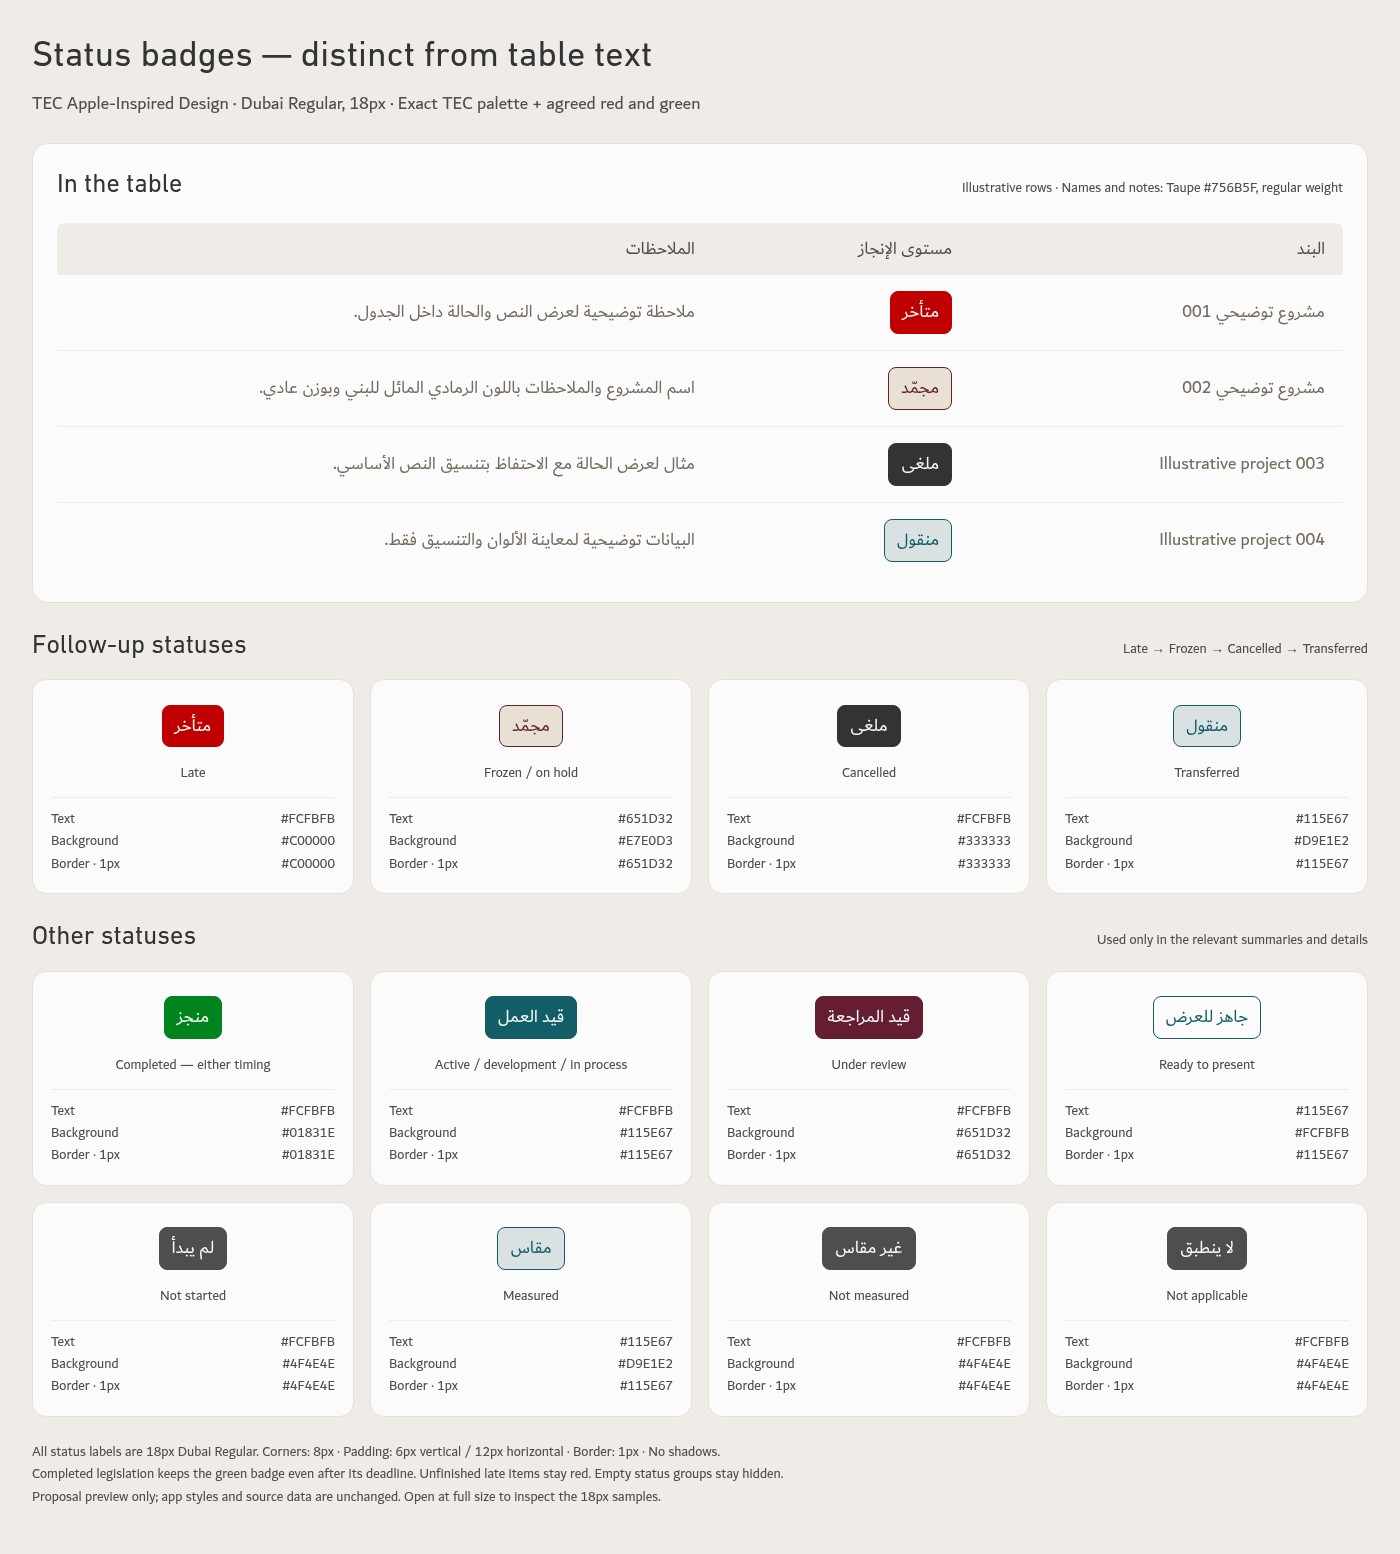
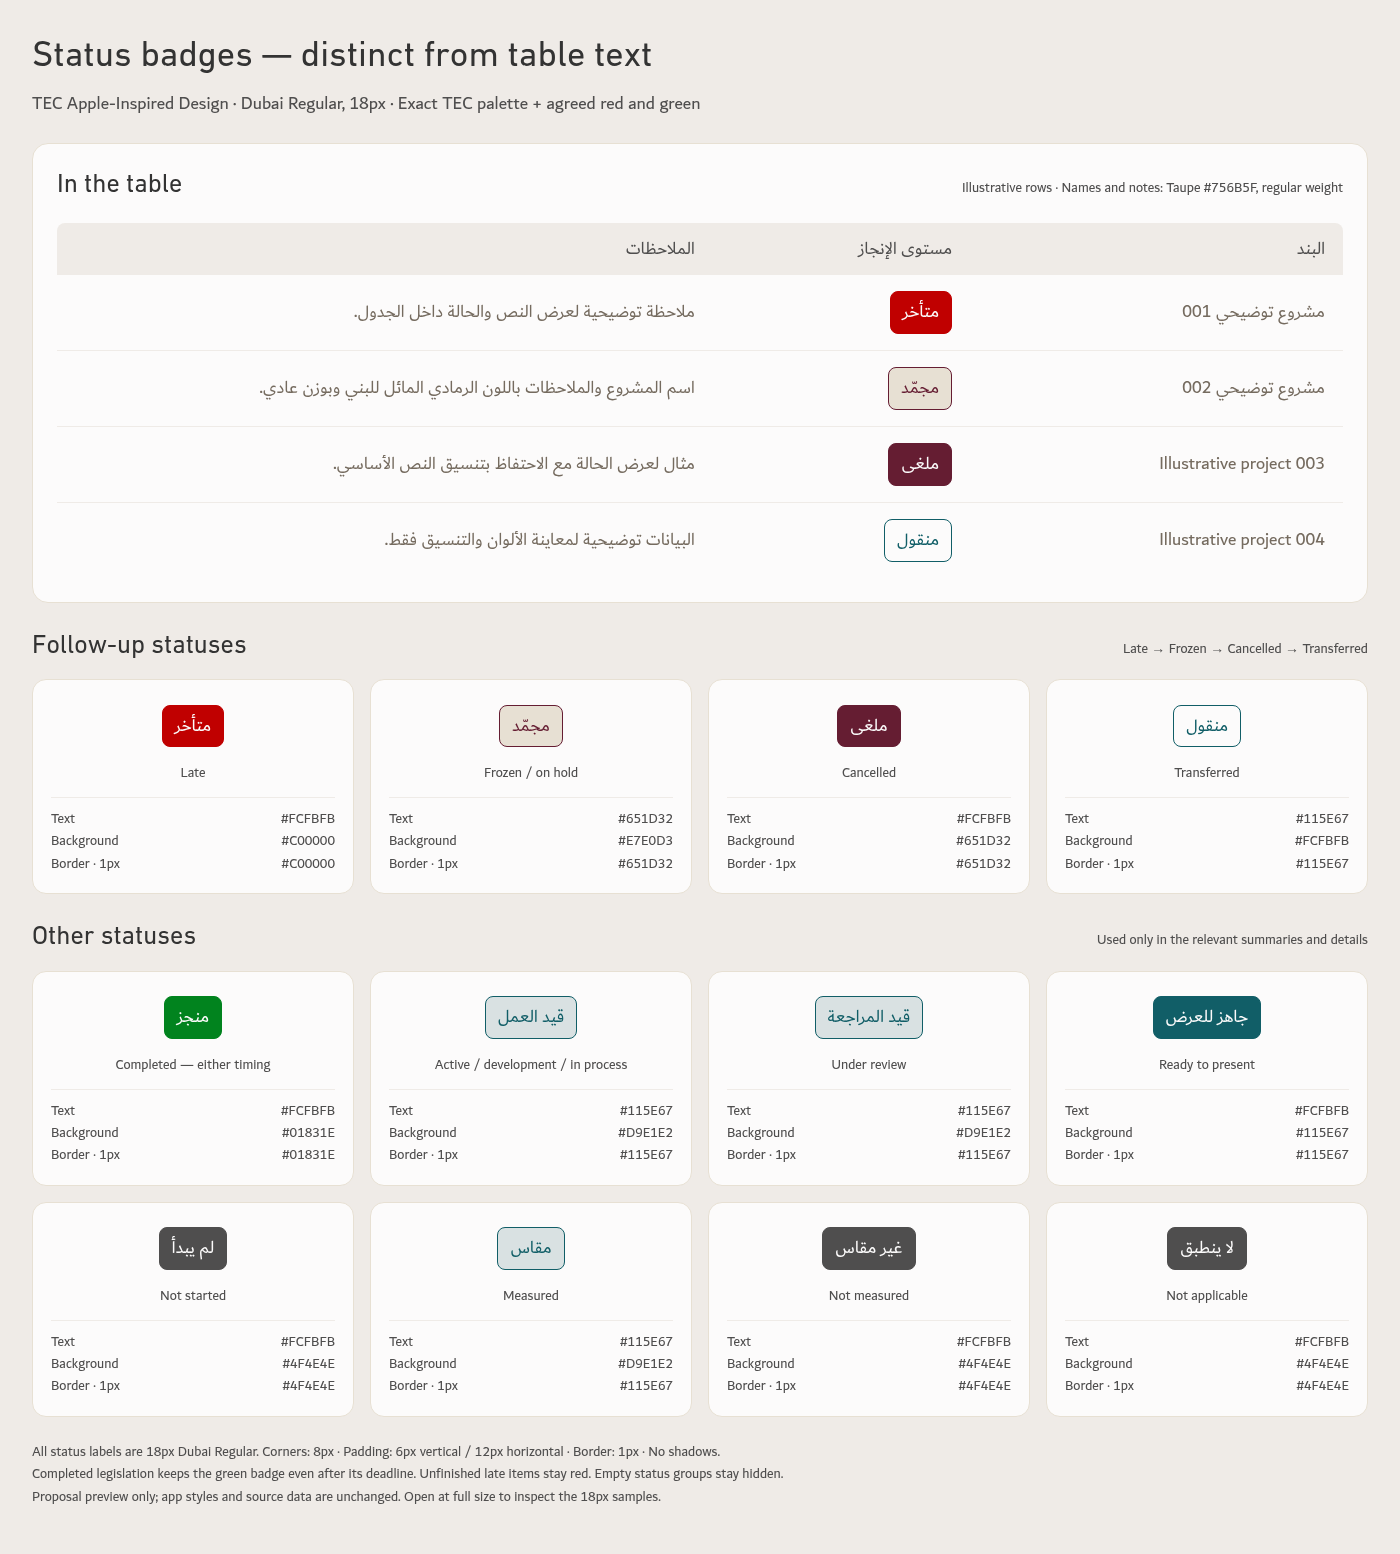
Update status preview with selected color mappings

diff --git a/Status-Previews/README.md b/Status-Previews/README.md
@@ -1,6 +1,6 @@
 # TEC status badge color proposal
 
-Proposal responding to the request that status badges stand apart from the main table text colors. The typography specification is retained: names and notes use Dubai Regular, 18px, Taupe #756B5F; table headers use Ink #4F4E4E on Linen #EFEBE7. This preview loads the actual bundled DIN Next Arabic Regular and Dubai Regular fonts at device scale 1. Sample rows are illustrative. App files and workbook data are unchanged.
+Updated preview of the selected status badge colors, distinct from the main table text colors. The typography specification is retained: names and notes use Dubai Regular, 18px, Taupe #756B5F; table headers use Ink #4F4E4E on Linen #EFEBE7. This preview loads the actual bundled DIN Next Arabic Regular and Dubai Regular fonts at device scale 1. Sample rows are illustrative. App files and workbook data are unchanged.
 
 [Open the full-size status preview](TEC-Status-Badge-Proposal.png)
 
@@ -12,12 +12,12 @@ Proposal responding to the request that status badges stand apart from the main 
 | --- | --- | --- | --- | --- |
 | متأخر | Paper #FCFBFB | Red #C00000 | Red #C00000 | 6.27:1 |
 | مجمّد / معلّق | Burgundy #651D32 | Sand #E7E0D3 | Burgundy #651D32 | 9.01:1 |
-| ملغى | Paper #FCFBFB | Charcoal #333333 | Charcoal #333333 | 12.23:1 |
-| منقول | Teal #115E67 | Mist #D9E1E2 | Teal #115E67 | 5.61:1 |
+| ملغى | Paper #FCFBFB | Burgundy #651D32 | Burgundy #651D32 | 11.45:1 |
+| منقول | Teal #115E67 | Paper #FCFBFB | Teal #115E67 | 7.21:1 |
 | منجز | Paper #FCFBFB | Green #01831E | Green #01831E | 4.77:1 |
-| قيد العمل / قيد التطوير / قيد الإجراء | Paper #FCFBFB | Teal #115E67 | Teal #115E67 | 7.21:1 |
-| قيد المراجعة | Paper #FCFBFB | Burgundy #651D32 | Burgundy #651D32 | 11.45:1 |
-| جاهز للعرض | Teal #115E67 | Paper #FCFBFB | Teal #115E67 | 7.21:1 |
+| قيد العمل / قيد التطوير / قيد الإجراء | Teal #115E67 | Mist #D9E1E2 | Teal #115E67 | 5.61:1 |
+| قيد المراجعة | Teal #115E67 | Mist #D9E1E2 | Teal #115E67 | 5.61:1 |
+| جاهز للعرض | Paper #FCFBFB | Teal #115E67 | Teal #115E67 | 7.21:1 |
 | لم يبدأ | Paper #FCFBFB | Ink #4F4E4E | Ink #4F4E4E | 8.03:1 |
 | مقاس | Teal #115E67 | Mist #D9E1E2 | Teal #115E67 | 5.61:1 |
 | غير مقاس / لا ينطبق | Paper #FCFBFB | Ink #4F4E4E | Ink #4F4E4E | 8.03:1 |
